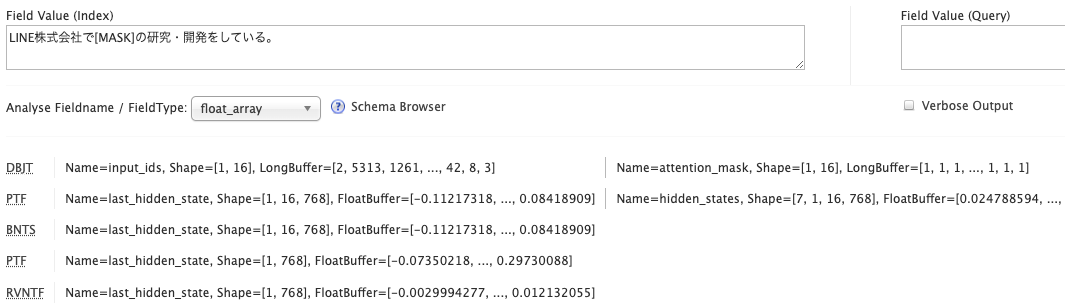
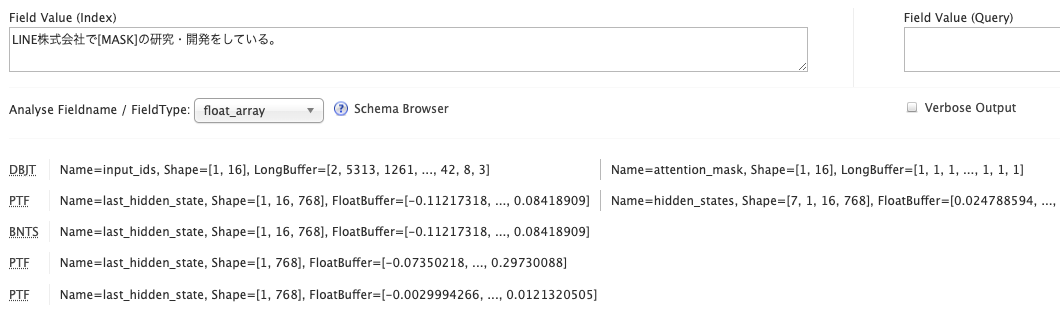
VectorNormalizer in Python

diff --git a/src/main/java/io/github/tmanabe/stream/VectorNormalizerTokenFilterFactory.java b/src/main/java/io/github/tmanabe/stream/VectorNormalizerTokenFilterFactory.java
@@ -1,0 +1,38 @@
+package io.github.tmanabe.stream;
+
+import io.github.tmanabe.PythonProcess;
+import io.github.tmanabe.SafetensorsBuilder;
+import io.github.tmanabe.SafetensorsViewer;
+import org.apache.lucene.analysis.TokenStream;
+import org.apache.lucene.analysis.TokenFilterFactory;
+
+import java.io.IOException;
+import java.nio.FloatBuffer;
+import java.util.Arrays;
+import java.util.Map;
+
+public class VectorNormalizerTokenFilterFactory extends TokenFilterFactory {
+    private final PythonProcess pythonProcess;
+
+    public VectorNormalizerTokenFilterFactory(Map<String, String> args) throws IOException {
+        super(args);
+        PythonProcess.HealthChecker healthChecker = (pythonProcess) -> {
+            SafetensorsBuilder safetensorsBuilder = new SafetensorsBuilder();
+            safetensorsBuilder.add("last_hidden_state", Arrays.asList(1, 2), new float[]{-3f, 4f});
+            pythonProcess.write(safetensorsBuilder);
+            SafetensorsViewer safetensorsViewer = pythonProcess.read();
+            {
+                FloatBuffer lastHiddenState = safetensorsViewer.getFloatBuffer("last_hidden_state");
+                assert lastHiddenState.limit() == 2;
+                assert lastHiddenState.get(0) == -0.6f;
+                assert lastHiddenState.get(1) == 0.8f;
+            }
+        };
+        pythonProcess = new PythonProcess("vector_normalizer.py", healthChecker);
+    }
+
+    @Override
+    public PythonTokenFilter create(TokenStream input) {
+        return new PythonTokenFilter(input, pythonProcess);
+    }
+}

diff --git a/src/main/resources/vector_normalizer.py b/src/main/resources/vector_normalizer.py
@@ -1,0 +1,38 @@
+#!/usr/bin/env python
+
+import numpy
+import os
+import safetensors.torch
+import sys
+
+
+def input_bytes_from_stdin(content_len):
+    bytes_list, total_len = [], 0
+    while total_len < content_len:
+        byte_data = os.read(sys.stdin.fileno(), content_len - total_len)
+        bytes_list.append(byte_data)
+        total_len += len(byte_data)
+    return b''.join(bytes_list)
+
+
+def input_tensors_from_stdin():
+    content_len = numpy.frombuffer(os.read(sys.stdin.fileno(), 8), dtype="u8").item()
+    return safetensors.torch.load(input_bytes_from_stdin(content_len))
+
+
+def output_tensors_to_stdout(output_tensors):
+    byte_data = safetensors.torch.save(output_tensors)
+    os.write(sys.stdout.fileno(), numpy.array(len(byte_data), dtype="u8").tobytes())
+    os.write(sys.stdout.fileno(), byte_data)
+    sys.stdout.flush()
+
+
+import torch
+
+
+while True:
+    input_tensors = input_tensors_from_stdin()
+    output_tensors = {}
+    for tensor_name, tensor in input_tensors.items():
+        output_tensors[tensor_name] = tensor / torch.norm(tensor)
+    output_tensors_to_stdout(output_tensors)

diff --git a/README.md b/README.md
@@ -26,7 +26,7 @@
       <filter class="io.github.tmanabe.stream.LineDistilBertTokenFilterFactory"/>
       <filter class="io.github.tmanabe.stream.ByNameTokenSelectorFactory" select="last_hidden_state"/>
       <filter class="io.github.tmanabe.stream.AveragePoolingTokenFilterFactory"/>
-      <filter class="io.github.tmanabe.stream.AveragePoolingTokenFilterFactory"/> <!-- For simple testing -->
+      <filter class="io.github.tmanabe.stream.VectorNormalizerTokenFilterFactory"/>
     </analyzer>
   </fieldType>
 ```
